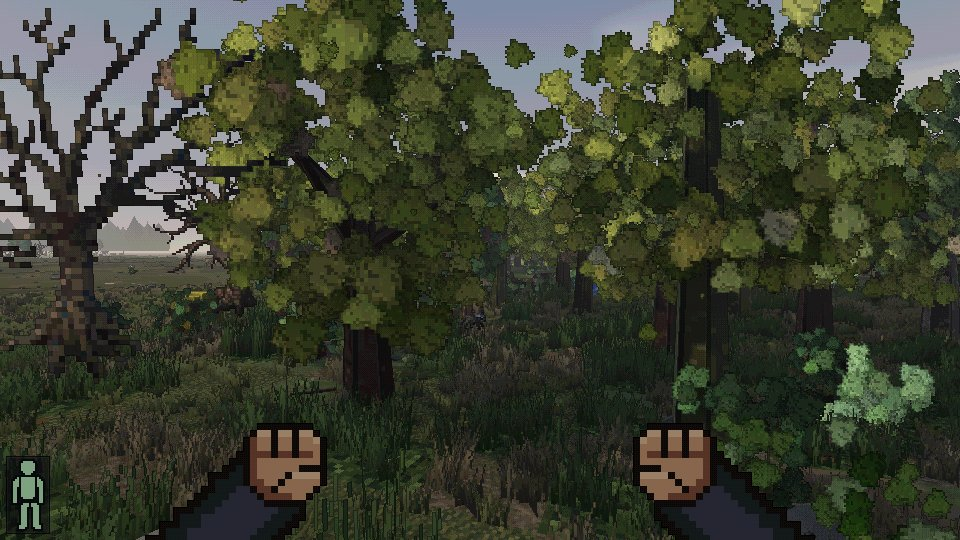
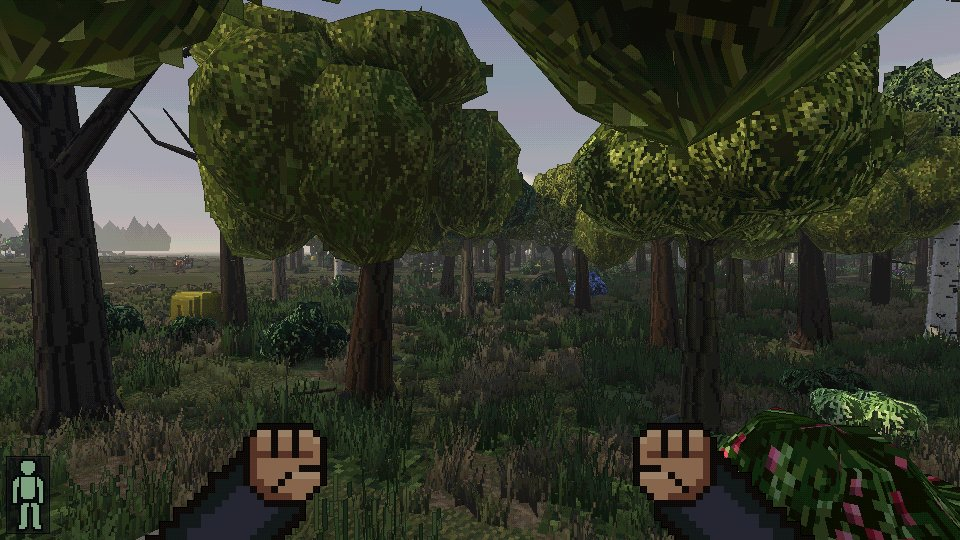
Flora: willow as drooping lumps (no strand cards), brighter leaf ramps, snow not leaves; FLORA.md, JPEG comparisons, perf; voxel/full look shots regenerated

diff --git a/src/render/flora.ts b/src/render/flora.ts
@@ -2,7 +2,7 @@ import * as THREE from 'three';
 import { Rng, hashString } from '../core/rng';
 import { LEVEL_HEIGHT } from '../world/coords';
 import type { RGB } from './colors';
-import { FloraAtlas, paintBark, paintDrape, paintFringe, paintLeaves, paintNeedles, paintSnow, paintTwigs, type BarkKind, type Ramp4 } from './floraArt';
+import { FloraAtlas, paintBark, paintFringe, paintLeaves, paintNeedles, paintSnow, paintTwigs, type BarkKind, type Ramp4 } from './floraArt';
 import { framePixels, frameKey } from './framePixels';
 import { GeomBuilder, type V3 } from './geometry';
 import type { GroundField } from './ground';
@@ -168,8 +168,6 @@ export interface Layout {
   cones: Cone[];
   /** twig cutout cards (bare crowns): centre and size */
   twigs: Lump[];
-  /** hanging leaf curtains (willow): top-centre, half width, drop */
-  drapes: Lump[];
   crown: V3;
 }
 
@@ -187,7 +185,7 @@ export function layoutOf(family: Family, variant: number, bare: boolean): Layout
 function makeLayout(family: Family, variant: number, bare: boolean): Layout {
   const rng = new Rng(hashString(family) ^ (variant * 0x9e3779b1));
   const j = (a: number) => (rng.next() - 0.5) * 2 * a;
-  const L: Layout = { trunk: null, limbs: [], lumps: [], cones: [], twigs: [], drapes: [], crown: [0, 0.65, 0] };
+  const L: Layout = { trunk: null, limbs: [], lumps: [], cones: [], twigs: [], crown: [0, 0.65, 0] };
   const trunk = (top: number, r: number, lean = 0.03): V3 => {
     const lx = j(lean), lz = j(lean);
     const pts: V3[] = [[0, -0.03, 0], [0, 0.04, 0], [lx * 0.3, top * 0.45, lz * 0.3], [lx, top, lz]];
@@ -234,14 +232,16 @@ function makeLayout(family: Family, variant: number, bare: boolean): Layout {
       break;
     }
     case 'willow': {
-      // a low wide dome with curtains of hanging leaves (drapes) around its rim
+      // a low wide dome whose rim lumps hang down in long drooping tongues. (Hanging strand
+      // cards were tried: magnified up close they were floating confetti.)
       const top = trunk(0.42, 0.05, 0.05);
-      crownOf([0, 0.64, 0], [0.4, 0.26, 0.4], 9, [0.36, 0.48], 0.8);
-      if (bare) bareCrown(top, 0.05, 0.1);
-      else {
-        for (let i = 1; i < L.lumps.length; i += 2) limb(top, L.lumps[i].c, 0.022);
-        for (const l of L.lumps.slice(1)) L.drapes.push({ c: [l.c[0] * 1.15, l.c[1] - l.r[1] * 0.2, l.c[2] * 1.15], r: [l.r[0] * 1.1, 0.3, l.r[2] * 1.1] });
+      crownOf([0, 0.66, 0], [0.4, 0.24, 0.4], 9, [0.34, 0.44], 0.8);
+      for (const l of L.lumps.slice(1)) if (l.c[1] < 0.7) {
+        l.c = [l.c[0] * 1.12, l.c[1] - 0.1, l.c[2] * 1.12];
+        l.r = [l.r[0] * 0.8, l.r[1] * 2.1, l.r[2] * 0.8];
       }
+      if (bare) bareCrown(top, 0.05, 0.1);
+      else for (let i = 1; i < L.lumps.length; i += 2) limb(top, L.lumps[i].c, 0.022);
       break;
     }
     case 'birch': {
@@ -360,7 +360,9 @@ export function paletteOf(f: TileFrame): Palette | null {
     const at = (arr: RGB[], t: number): RGB => arr[Math.min(arr.length - 1, Math.floor(arr.length * t))];
     const bare = green / Math.max(1, filled) < 0.22;
     const ramp: Ramp4 = leaf.length > 8
-      ? [darken(at(leaf, 0.15), 0.8), at(leaf, 0.42), brighten(at(leaf, 0.74), 1.05), brighten(at(leaf, 0.96), 1.15)]
+      // brightened: the sprite's colours are drawn with its own shading baked in, while the
+      // model gets real (toon) shading on top; unbrightened, crowns read dark olive
+      ? [darken(at(leaf, 0.15), 0.85), brighten(at(leaf, 0.42), 1.15), brighten(at(leaf, 0.74), 1.22), brighten(at(leaf, 0.96), 1.3)]
       : [[26, 40, 20], [52, 78, 34], [78, 108, 46], [118, 146, 64]];
     const barkC: RGB = bark.length ? at(bark, 0.5) : [70, 52, 38];
     const q = (c: RGB) => c.map((v) => Math.round(v / 20)).join('.');
@@ -550,11 +552,6 @@ function paintImpostor(L: Layout, axis: 0 | 1, pal: Palette, leafTex: Img, barkT
         img.set(x, y, v > 0.55 ? pal.leaf[0] : texAt(leafTex, x, y));
       }
   }
-  for (const d of L.drapes) {
-    const cx = X(d.c), cy = Y(d.c[1]), hw = d.r[axis === 0 ? 0 : 2] * IMP_PX, drop = d.r[1] * IMP_PX;
-    for (let x = Math.floor(cx - hw); x <= cx + hw; x += 2)
-      for (let y = 0; y < drop * (0.6 + 0.4 * (((x * 7) & 3) / 3)); y++) img.set(x, cy + y, y % 3 ? pal.leaf[1] : pal.leaf[2]);
-  }
   for (const t of L.twigs) {
     const cx = X(t.c), cy = Y(t.c[1]), r = t.r[0] * IMP_PX;
     for (let k = 0; k < 6; k++) {
@@ -635,14 +632,6 @@ export function* buildFloraSteps(specs: TreeSpec[], ground: GroundField | null):
       lump(g, leafF, c, r, crownW, near ? 9 : 6, near ? 5 : 3, s.seed + i * 17);
       // ragged leaf-mass cards through the lump: only their rim shows outside it
       if (fringeF) cards(g, fringeF, c, r[0] * 1.32, r[1] * 1.32, crownW, yaw + i, 3);
-    }
-    if (L.drapes.length && lod === 0) {
-      const drapeF = A.frame(`drape|${pal.key}`, false, () => paintDrape(pal.leaf, 13));
-      for (const d of L.drapes) {
-        const c = X(d.c);
-        // cards hang from the lump's waist: centre half the drop below it
-        cards(g, drapeF, c, d.r[0] * H, d.r[1] * H * 0.5, crownW, yaw + c[0], 2, -d.r[1] * H * 0.5);
-      }
     }
     if (L.twigs.length) {
       const twigF = A.frame(`twig|${barkBase.map((v) => Math.round(v / 10)).join('.')}`, false, () => paintTwigs(barkBase, 9));

diff --git a/src/render/floraArt.ts b/src/render/floraArt.ts
@@ -102,21 +102,6 @@ export function paintFringe(r: Ramp4, seed: number, dots?: { cols: RGB[]; n: num
   return img;
 }
 
-/** Hanging strands of leaves (willow): cutout, strands of varying length from the top. */
-export function paintDrape(r: Ramp4, seed: number): Img {
-  const img = new Img(T, T);
-  const rng = new Rng(seed);
-  for (let x = 0; x < T; x += rng.int(1, 3)) {
-    const len = rng.int(14, T - 1);
-    for (let y = 0; y < len; y++) {
-      const c = y % 3 === 0 ? r[2] : rng.next() < 0.3 ? r[0] : r[1];
-      img.set(x + (y > len * 0.6 && rng.next() < 0.3 ? 1 : 0), y, c);
-    }
-    img.set(x, len, r[3]);
-  }
-  return img;
-}
-
 /** Forking twigs (bare crowns): cutout, bark-coloured. */
 export function paintTwigs(bark: RGB, seed: number): Img {
   const img = new Img(T, T);

diff --git a/docs/FLORA.md b/docs/FLORA.md
@@ -13,7 +13,7 @@ world material (toon bands, light map, sun shadows, fill light):
 | family | ids | shape |
 | --- | --- | --- |
 | round | t_tree, maple, oak-likes, elm, walnut, beech, chestnut... | 8-sided trunk with root flare, forking limbs, a crown of 10 low-poly leaf lumps in three bands (bumpy outline), ragged leaf-mass cutout cards through each lump |
-| willow | t_tree_willow | low wide dome with hanging leaf curtains |
+| willow | t_tree_willow | low wide dome whose rim lumps droop in long tongues |
 | conifer | pine, juniper (spruce/fir/cedar ids too) | straight trunk, 5 star-edged drooping cone tiers with undersides; snow caps in winter |
 | birch | t_tree_birch | white bark with dark lenticels, slim trunk, narrow tall crown |
 | fruit | apple, pear, cherry, peach, plum, mulberry, almond... | short trunk, wide low dome; white/pink blossom in spring, fruit dots in summer/autumn (none when harvested) |
@@ -26,7 +26,7 @@ world material (toon bands, light map, sun shadows, fill light):
   (gap, mid, light, highlight) and bark from its trunk rows, so species tint, autumn colours and
   winter carry over. Pale grey pixels count as snow, not leaves.
 * Textures are painted at 32 texels/m: leaf clusters (3-px blades with lit tips), drooping
-  needles, furrowed / plated / birch / smooth bark, snow, twig and drape cutouts. They live on a
+  needles, furrowed / plated / birch / smooth bark, snow and twig cutouts. They live on a
   private 2048 atlas page (`FloraAtlas`, wrapped padding so mips don't bleed); ~17 % used after
   a forest + town.
 * Lumps' normals lean toward the crown's volume normal, so a crown shades as one mass (lit top,
@@ -52,19 +52,50 @@ distance; only detail changes at the ring edges.
   `lineup-spring|autumn|winter`, `lineupfar` (60 m: middle/far LOD), `autumn`, `springforest`,
   `winterforest`. `tools/bench-stream.ts --view forest --yaw -20` streams through woods.
 
-## Screenshots
+## Screenshots (1080p, RTX 5080, seed 1; left v2 clumps, right models)
 
-See `screenshots/wave3/flora/` (JPEG): v2 clumps vs. models in the forest and street, the
-lineup in each season, and the far lineup.
+![](screenshots/wave3/flora/forest.jpg)
+![](screenshots/wave3/flora/street.jpg)
+![](screenshots/wave3/flora/far.jpg)
+![](screenshots/wave3/flora/autumn.jpg)
+![](screenshots/wave3/flora/winterforest.jpg)
 
-## Performance
+One of every family (round, maple, pine, birch, apple, cherry, sapling, dead, willow, rose,
+hydrangea, blueberry, underbrush, fern) in autumn and winter, and spring (v2 vs an earlier pass
+of the models, before the leaf ramp was brightened):
 
-See the table at the end of this file (filled from `look-shots --bench` and `bench-stream`).
+![](screenshots/wave3/flora/lineup.jpg)
+![](screenshots/wave3/flora/lineup_spring.jpg)
+
+## Performance (RTX 5080, 1080p)
+
+Standing (`look-shots --bench`, full look): render ms / triangles
+
+| view | v2 clumps | models |
+| --- | --- | --- |
+| forest | 1.8 / 468k | 1.4 / 676k |
+| street | 1.7 / 326k | 1.5 / 453k |
+| far | 1.9 / 604k | 1.6 / 566k |
+
+Streaming through woods (`bench-stream --view forest --yaw -20`, 20 s runs, main-loop ms):
+
+| run | v2 clumps loop p99 / max | models loop p99 / max | tree meshing total | longest step |
+| --- | --- | --- | --- | --- |
+| sprint 7 t/s | 9.0 / 11.5 | 10.5 / 15.2 | 36 -> 506 ms | 3.7 ms (one tree) |
+| drive 40 mph | 9.6 / 15.4 | 10.3 / 11.8 | 35 -> 533 ms | 3.5 ms |
+
+No frame over 33 ms in either. Trees now exist at every distance (middle ring and impostors
+instead of billboards), so there is more tree meshing, but it stays inside the per-frame chunk
+budget (a tree per step). Render time is the same or lower (one merged mesh per chunk
+instead of hundreds of instanced clump cards per tree). Atlas: ~17 % of the 2048 page after a town and a forest.
 
 ## Known gaps
 
-* Lumps are smooth-shaded low-poly: up close (< 2 m) their facets and the 32 texel/m leaves are
-  big; walking into a crown fills the view (v2 clumps dissolved near the eye).
-* Middle ring -> impostor switch still changes the crown outline a little (cards vs lumps).
-* t_fern renders as a low bush; no frond model.
-* No wind.
+* Lumps are smooth-shaded low-poly: within ~2 m their facets and the 32 texel/m leaves are big,
+  and walking into a crown fills the view (v2 clumps dissolved near the eye).
+* The middle ring -> impostor switch at ~80 m changes the crown outline a little (flat cards
+  vs lumps); colours and proportions match.
+* t_fern renders as a low bush (no fronds); saplings in winter keep pale lumps.
+* No wind sway.
+* The flora page re-uploads (2048^2) when a new palette is first painted; this settles after
+  the first few chunks of a new biome/season.

diff --git a/docs/LOOKS.md b/docs/LOOKS.md
@@ -22,7 +22,8 @@ no washed-out sky around the sun. **Options > Distance haze** (`clear` default /
 `legacy` = the old fog; `?haze=`, `cdda.setHaze`, `cdda.hazeTweak`) and **Options > Draw
 distance** (96 / 120 / 168 m). Round 2 added **Options > Form lighting** (`toon` default /
 `bold` / `soft` = v2; `?form=`, `cdda.setForm`, `cdda.formTweak`), stable cutout mips on grass and
-leaf cards, and a screen-round sun. Details, before/after shots and perf: [READABILITY.md](READABILITY.md).
+leaf cards, and a screen-round sun. Round 3 replaced the trees and bushes with modelled species
+(**Options > Trees**: `models` default / `clumps` = v2; see [FLORA.md](FLORA.md)). Details, before/after shots and perf: [READABILITY.md](READABILITY.md).
 The shots below were regenerated with it.
 
 ## Comparison (1920x1080, RTX 5080)
